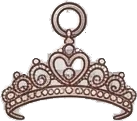
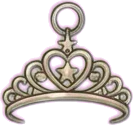
Add Spanish charms, recut three ballet charms, and make evolution sparkle
- Recut ティアラ, アンティークのかぎ and 白鳥 from the green-screen sheet
  (green unmixed from the edges so thin cords and lace stay clean)
- Add 12 Spanish charms; the two red bows tie around the neck
- When a big bottle appears: rotating light rays, a pulsing halo, a
  glowing white-gold outline, a shine sweeping across the glass, glitter
  inside the bottle, twinkling stars and falling sparkles
- Bump IMAGE_VERSION for the replaced charm images

Claude-Session: https://claude.ai/code/session_01LsuWBkhUDp3d2Zrt24Lv8i

diff --git a/css/style.css b/css/style.css
@@ -1005,3 +1005,70 @@ main {
   border-radius: 0 0 35% 35% / 0 0 25% 25%;
   pointer-events: none;
 }
+
+/* ---------- 大瓶に進化したときの、特別なかがやき ---------- */
+.merge-rays, .merge-halo { position: absolute; translate: -50% -50%; border-radius: 50%; pointer-events: none; }
+.merge-rays {
+  background: repeating-conic-gradient(from 0deg, rgb(255 236 170 / .55) 0deg 7deg, rgb(255 255 255 / 0) 7deg 22deg);
+  -webkit-mask-image: radial-gradient(circle, #000 18%, transparent 68%);
+  mask-image: radial-gradient(circle, #000 18%, transparent 68%);
+  animation: rays-in .8s ease-out both, rays-spin 14s linear infinite;
+}
+.merge-halo {
+  background: radial-gradient(circle, rgb(255 250 225 / .95) 0%, rgb(255 224 150 / .55) 28%, rgb(255 190 215 / .25) 48%, transparent 66%);
+  animation: rays-in .8s ease-out both, halo-pulse 2.2s ease-in-out infinite;
+}
+@keyframes rays-in { from { opacity: 0; scale: .4; } }
+@keyframes rays-spin { to { rotate: 360deg; } }
+@keyframes halo-pulse { 0%, 100% { opacity: .75; scale: .95; } 50% { opacity: 1; scale: 1.06; } }
+/* 大瓶そのものも、金色にふちどられて光る */
+.merge-big.glory .bottle { animation: glory-glow 2.2s ease-in-out infinite; }
+@keyframes glory-glow {
+  0%, 100% { filter: drop-shadow(0 0 3px #fff) drop-shadow(0 0 10px rgb(255 255 255 / .95)) drop-shadow(0 0 24px rgb(255 205 100 / .9)) brightness(1.04); }
+  50% { filter: drop-shadow(0 0 5px #fff) drop-shadow(0 0 18px rgb(255 255 255 / 1)) drop-shadow(0 0 44px rgb(255 190 70 / 1)) brightness(1.12); }
+}
+.big-shimmer {
+  position: absolute;
+  inset: 0;
+  -webkit-mask-size: 100% 100%; mask-size: 100% 100%;
+  -webkit-mask-repeat: no-repeat; mask-repeat: no-repeat;
+  background: linear-gradient(115deg, transparent 38%, rgb(255 255 255 / .9) 48%, rgb(255 246 200 / .7) 52%, transparent 62%) no-repeat;
+  background-size: 300% 100%;
+  animation: shimmer-sweep 2s ease-in-out infinite;
+  z-index: 1;
+  pointer-events: none;
+}
+@keyframes shimmer-sweep { 0% { background-position: 110% 0; } 55%, 100% { background-position: -10% 0; } }
+.merge-twinkle {
+  position: absolute;
+  width: 16px;
+  aspect-ratio: 1;
+  translate: -50% -50%;
+  background: #fff8d8;
+  clip-path: polygon(50% 0, 60% 40%, 100% 50%, 60% 60%, 50% 100%, 40% 60%, 0 50%, 40% 40%);
+  filter: drop-shadow(0 0 4px rgb(255 214 120 / 1));
+  animation: twinkle-star 2s ease-in-out infinite both;
+  pointer-events: none;
+}
+.merge-twinkle.big { width: 34px; }
+.merge-twinkle.inside { width: 9%; z-index: 2; background: #fff; filter: drop-shadow(0 0 3px rgb(255 255 255 / 1)) drop-shadow(0 0 6px rgb(255 214 120 / .9)); }
+@keyframes twinkle-star {
+  0%, 100% { opacity: 0; transform: scale(.2) rotate(0deg); }
+  50% { opacity: 1; transform: scale(1) rotate(45deg); }
+}
+.merge-glitter {
+  position: absolute;
+  top: -10px;
+  width: 6px;
+  aspect-ratio: 1;
+  border-radius: 50%;
+  box-shadow: 0 0 6px rgb(255 230 160 / .9);
+  animation: glitter-fall 4s linear infinite both;
+  pointer-events: none;
+}
+@keyframes glitter-fall {
+  0% { transform: translateY(0) translateX(0); opacity: 0; }
+  10% { opacity: 1; }
+  50% { transform: translateY(50vh) translateX(12px); }
+  100% { transform: translateY(105vh) translateX(-8px); opacity: 0; }
+}

diff --git a/js/shelf.js b/js/shelf.js
@@ -465,8 +465,68 @@ function playEvolution(big, used) {
   for (let i = 0; i < 10; i++) {
     sparkle(stage, cx + (Math.random() - 0.5) * 220, cy + (Math.random() - 0.5) * 240, flashAt + 1000 + i * 180, 10 + Math.random() * 10);
   }
+  // 5) 大瓶の特別なかがやき（閉じるまでずっと）
+  setTimeout(() => bigGlory(stage, bigEl, big, cx, cy), flashAt + 500);
   setTimeout(showResult, flashAt + 1100);
 }
+// 大瓶のまわりの、うしろでまわる光の筋・ふんわり光る輪・ガラスをすべる光・ずっとまたたく星・ふってくる光のつぶ
+function bigGlory(stage, bigEl, big, cx, cy) {
+  const size = Math.max(bigEl.offsetWidth, bigEl.offsetHeight) * 2.3;
+  const back = (cls) => {
+    const el = document.createElement("div");
+    el.className = cls;
+    el.style.left = cx + "px";
+    el.style.top = cy + "px";
+    el.style.width = el.style.height = size + "px";
+    stage.insertBefore(el, bigEl);
+    return el;
+  };
+  back("merge-rays");
+  back("merge-halo");
+  bigEl.classList.add("glory");
+  // ガラスの形にそって、光がすーっとすべる
+  const bottle = bigBottleById(big.bottle);
+  const shine = document.createElement("span");
+  shine.className = "big-shimmer";
+  const mask = `url(big/${bottle.id}-mask.webp)`;
+  shine.style.webkitMaskImage = shine.style.maskImage = mask;
+  bigEl.querySelector(".bottle").append(shine);
+  // 瓶の中にも、ラメのようなきらめき
+  const range = bottle.bottom - bottle.top;
+  for (let i = 0; i < 12; i++) {
+    const t = document.createElement("span");
+    t.className = "merge-twinkle inside";
+    t.style.left = 22 + Math.random() * 56 + "%";
+    t.style.top = bottle.top + range * (0.25 + Math.random() * 0.68) + "%";
+    t.style.animationDelay = (Math.random() * 2).toFixed(2) + "s";
+    t.style.animationDuration = (1.1 + Math.random() * 1.1).toFixed(2) + "s";
+    bigEl.querySelector(".bottle").append(t);
+  }
+  // まわりで、ずっとまたたく星
+  const w = bigEl.offsetWidth, h = bigEl.offsetHeight;
+  for (let i = 0; i < 14; i++) {
+    const a = (i / 14) * Math.PI * 2 + Math.random() * 0.3;
+    const rx = w * (0.62 + Math.random() * 0.35), ry = h * (0.5 + Math.random() * 0.22);
+    const t = document.createElement("span");
+    t.className = "merge-twinkle" + (i % 3 === 0 ? " big" : "");
+    t.style.left = cx + Math.cos(a) * rx + "px";
+    t.style.top = cy + Math.sin(a) * ry + "px";
+    t.style.animationDelay = (Math.random() * 1.8).toFixed(2) + "s";
+    t.style.animationDuration = (1.4 + Math.random() * 1.2).toFixed(2) + "s";
+    stage.append(t);
+  }
+  // 上から光のつぶがふってくる
+  for (let i = 0; i < 26; i++) {
+    const g = document.createElement("span");
+    g.className = "merge-glitter";
+    g.style.left = Math.random() * 100 + "%";
+    g.style.animationDelay = (Math.random() * 4).toFixed(2) + "s";
+    g.style.animationDuration = (3 + Math.random() * 3).toFixed(2) + "s";
+    g.style.background = ["#fff6c8", "#ffffff", "#ffd1e3", "#ffe08a"][i % 4];
+    stage.append(g);
+  }
+}
+
 const reduceMotionShelf = () => window.matchMedia && matchMedia("(prefers-reduced-motion: reduce)").matches;
 
 $("merge-btn").addEventListener("click", () => {

diff --git a/js/bigbottles.js b/js/bigbottles.js
@@ -73,14 +73,27 @@ const CHARMS = [
   { id: "d08", name: "うさぎとバラ", w: 114, h: 200, place: "hang" },
   { id: "e00", name: "トウシューズ", w: 131, h: 200, place: "hang" },
   { id: "e01", name: "ピンクのチュチュ", w: 182, h: 191, place: "hang" },
-  { id: "e02", name: "ティアラ", w: 137, h: 121, place: "hang" },
-  { id: "e03", name: "白鳥", w: 122, h: 157, place: "hang" },
+  { id: "e02", name: "ティアラ", w: 133, h: 125, place: "hang" },
+  { id: "e03", name: "白鳥", w: 122, h: 156, place: "hang" },
   { id: "e04", name: "ラベンダーのチュチュ", w: 186, h: 175, place: "hang" },
   { id: "e05", name: "バレリーナ", w: 131, h: 192, place: "hang" },
   { id: "e06", name: "星と月のトウシューズ", w: 56, h: 200, place: "hang" },
   { id: "e07", name: "トウシューズと星", w: 158, h: 200, place: "hang" },
   { id: "e08", name: "バラのリボン", w: 112, h: 200, place: "hang" },
-  { id: "e09", name: "アンティークのかぎ", w: 81, h: 196, place: "hang" },
+  { id: "e09", name: "アンティークのかぎ", w: 79, h: 196, place: "hang" },
   { id: "e10", name: "ハートのアンティークかぎ", w: 79, h: 200, place: "hang" },
   { id: "e11", name: "レースのリボン", w: 200, h: 174, place: "neck", pw: 58, pa: 0.21 },
+  // スペインのチャーム（追加）
+  { id: "f00", name: "赤い扇", w: 179, h: 200, place: "hang" },
+  { id: "f01", name: "タンバリン", w: 130, h: 181, place: "hang" },
+  { id: "f02", name: "カスタネット", w: 116, h: 163, place: "hang" },
+  { id: "f03", name: "バラの髪かざり", w: 173, h: 166, place: "hang" },
+  { id: "f04", name: "剣", w: 58, h: 200, place: "hang" },
+  { id: "f05", name: "赤い宝石のハート", w: 84, h: 146, place: "hang" },
+  { id: "f06", name: "騎士のかぶと", w: 109, h: 180, place: "hang" },
+  { id: "f07", name: "ショール", w: 152, h: 192, place: "hang" },
+  { id: "f08", name: "風車", w: 99, h: 176, place: "hang" },
+  { id: "f09", name: "ギター", w: 96, h: 200, place: "hang" },
+  { id: "f10", name: "黒レースの赤いリボン", w: 192, h: 200, place: "neck", pw: 60, pa: 0.2 },
+  { id: "f11", name: "金もようの赤いリボン", w: 134, h: 200, place: "neck", pw: 54, pa: 0.16 },
 ];

diff --git a/js/app.js b/js/app.js
@@ -22,7 +22,7 @@ const KCAL_PER_FAT_G = 7.2;  // 体脂肪1gあたりのカロリー
 // 保存名はすべて「n-app-」で始める（同じサイト上のほかのアプリとまざらないように）
 const STORAGE_KEY = "n-app-data";
 const LEGACY_STORAGE_KEY = "n-undou-bin.v1"; // 前の保存名（自動で引っ越す）
-const APP_VERSION = "11/20-1"; // 更新するたびに変える（設定画面に表示）
+const APP_VERSION = "11/20-2"; // 更新するたびに変える（設定画面に表示）
 
 // ---------- データの読み書き ----------
 

diff --git a/sw.js b/sw.js
@@ -9,8 +9,8 @@
 // ★ プログラムを直したら CODE_VERSION を、今ある画像を描き直したら IMAGE_VERSION を、必ず1つ上げる。
 //   （新しい画像を足しただけなら IMAGE_VERSION はそのまま。足した分だけダウンロードされる）
 importScripts("js/bottles.js", "js/bigbottles.js");
-const CODE_VERSION = 36;
-const IMAGE_VERSION = 3;
+const CODE_VERSION = 37;
+const IMAGE_VERSION = 4;
 const CODE_CACHE = `n-app-cache-v${CODE_VERSION}`;
 const IMAGE_CACHE = `n-app-images-v${IMAGE_VERSION}`;
 

diff --git a/README.md b/README.md
@@ -36,7 +36,7 @@
 - 大瓶に入っている記録を消したり、大瓶に使った分より少なく直したりすると、「大瓶を小瓶に戻す／大瓶はそのまま／やめる」を聞いてくる（勝手には戻さない）。小瓶に戻すと、その大瓶はなくなって中の運動は小瓶の棚に戻る（チャームもはずれる）
 - **大瓶の棚** は棚の絵の4段×4つ（16本）。進化した日の順に左上から並び、札は進化した日付。16本をこえたら「‹ ›」で次の棚へ
   - 大瓶はチャームなしの瓶のイラスト（`big/`、9種類：まる・ハート・星・電球形・かぼちゃ形・すらっと・ダイヤ・ドーム形・しずく）。中身はパステルの層で、体の8割まで
-- **チャーム**：大瓶に進化したら、55種類のチャーム（`charms/`）から **1本に3個まで** 選んでつけられる（最初から全部選べる。押した順に①②③、もう一度押すとはずれる・「ぜんぶはずす」もOK）
+- **チャーム**：大瓶に進化したら、67種類のチャーム（`charms/`）から **1本に3個まで** 選んでつけられる（最初から全部選べる。押した順に①②③、もう一度押すとはずれる・「ぜんぶはずす」もOK）
   - チャームは種類ごとにつけ方がちがう：**下げる**（ペンダント類。首からひもで下がってゆれる。1個目は右・2個目は左・3個目は前）／**首に巻く**（リボン・ネックレス）／**ふた**（宝石のふた。もとのコルクやふたはかくれる）／**台**（馬車の車輪）
   - 大瓶の棚で大瓶をタップすると、あとからチャームを付け替えられる
 - **シェイク**：夜、ホームの小瓶の下の「今日はおしまい」を押すと、今日の小瓶をシェイクできる。小瓶をタップすると（「iPhoneを振ってシェイク」で動きの許可をすると、振ってもOK）シャカシャカ揺れて、中身がまざって **その日の色** になる
